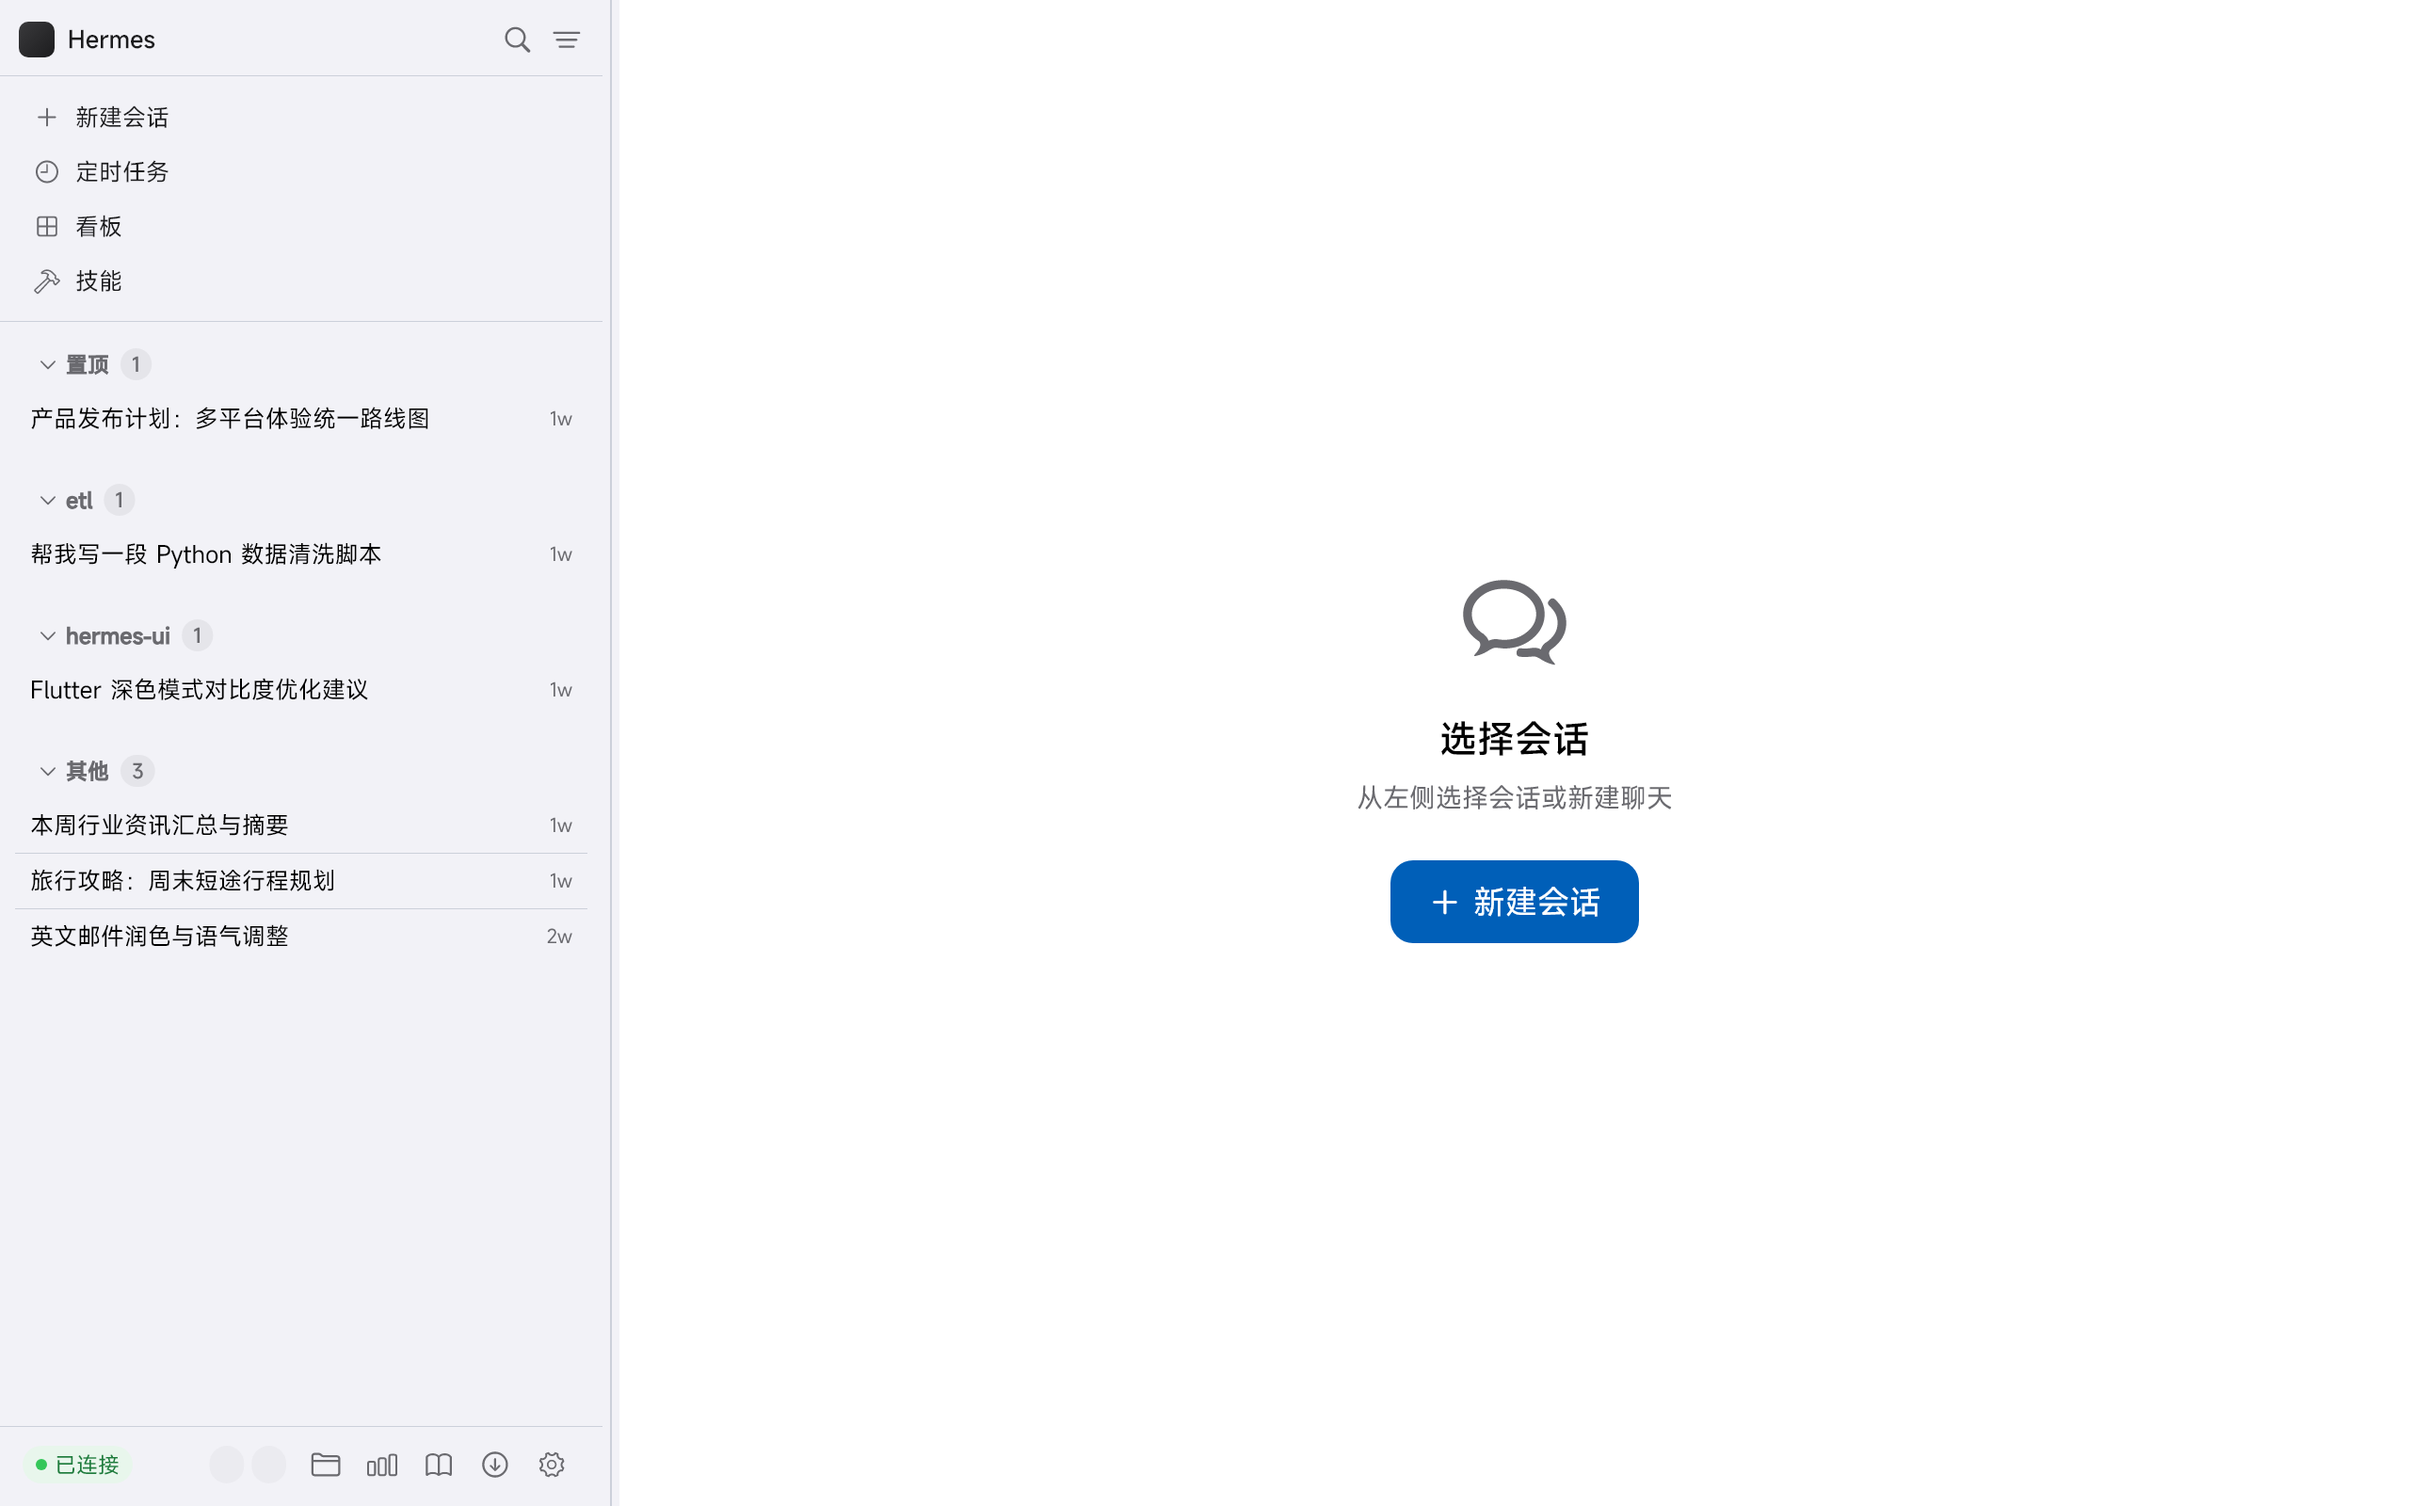
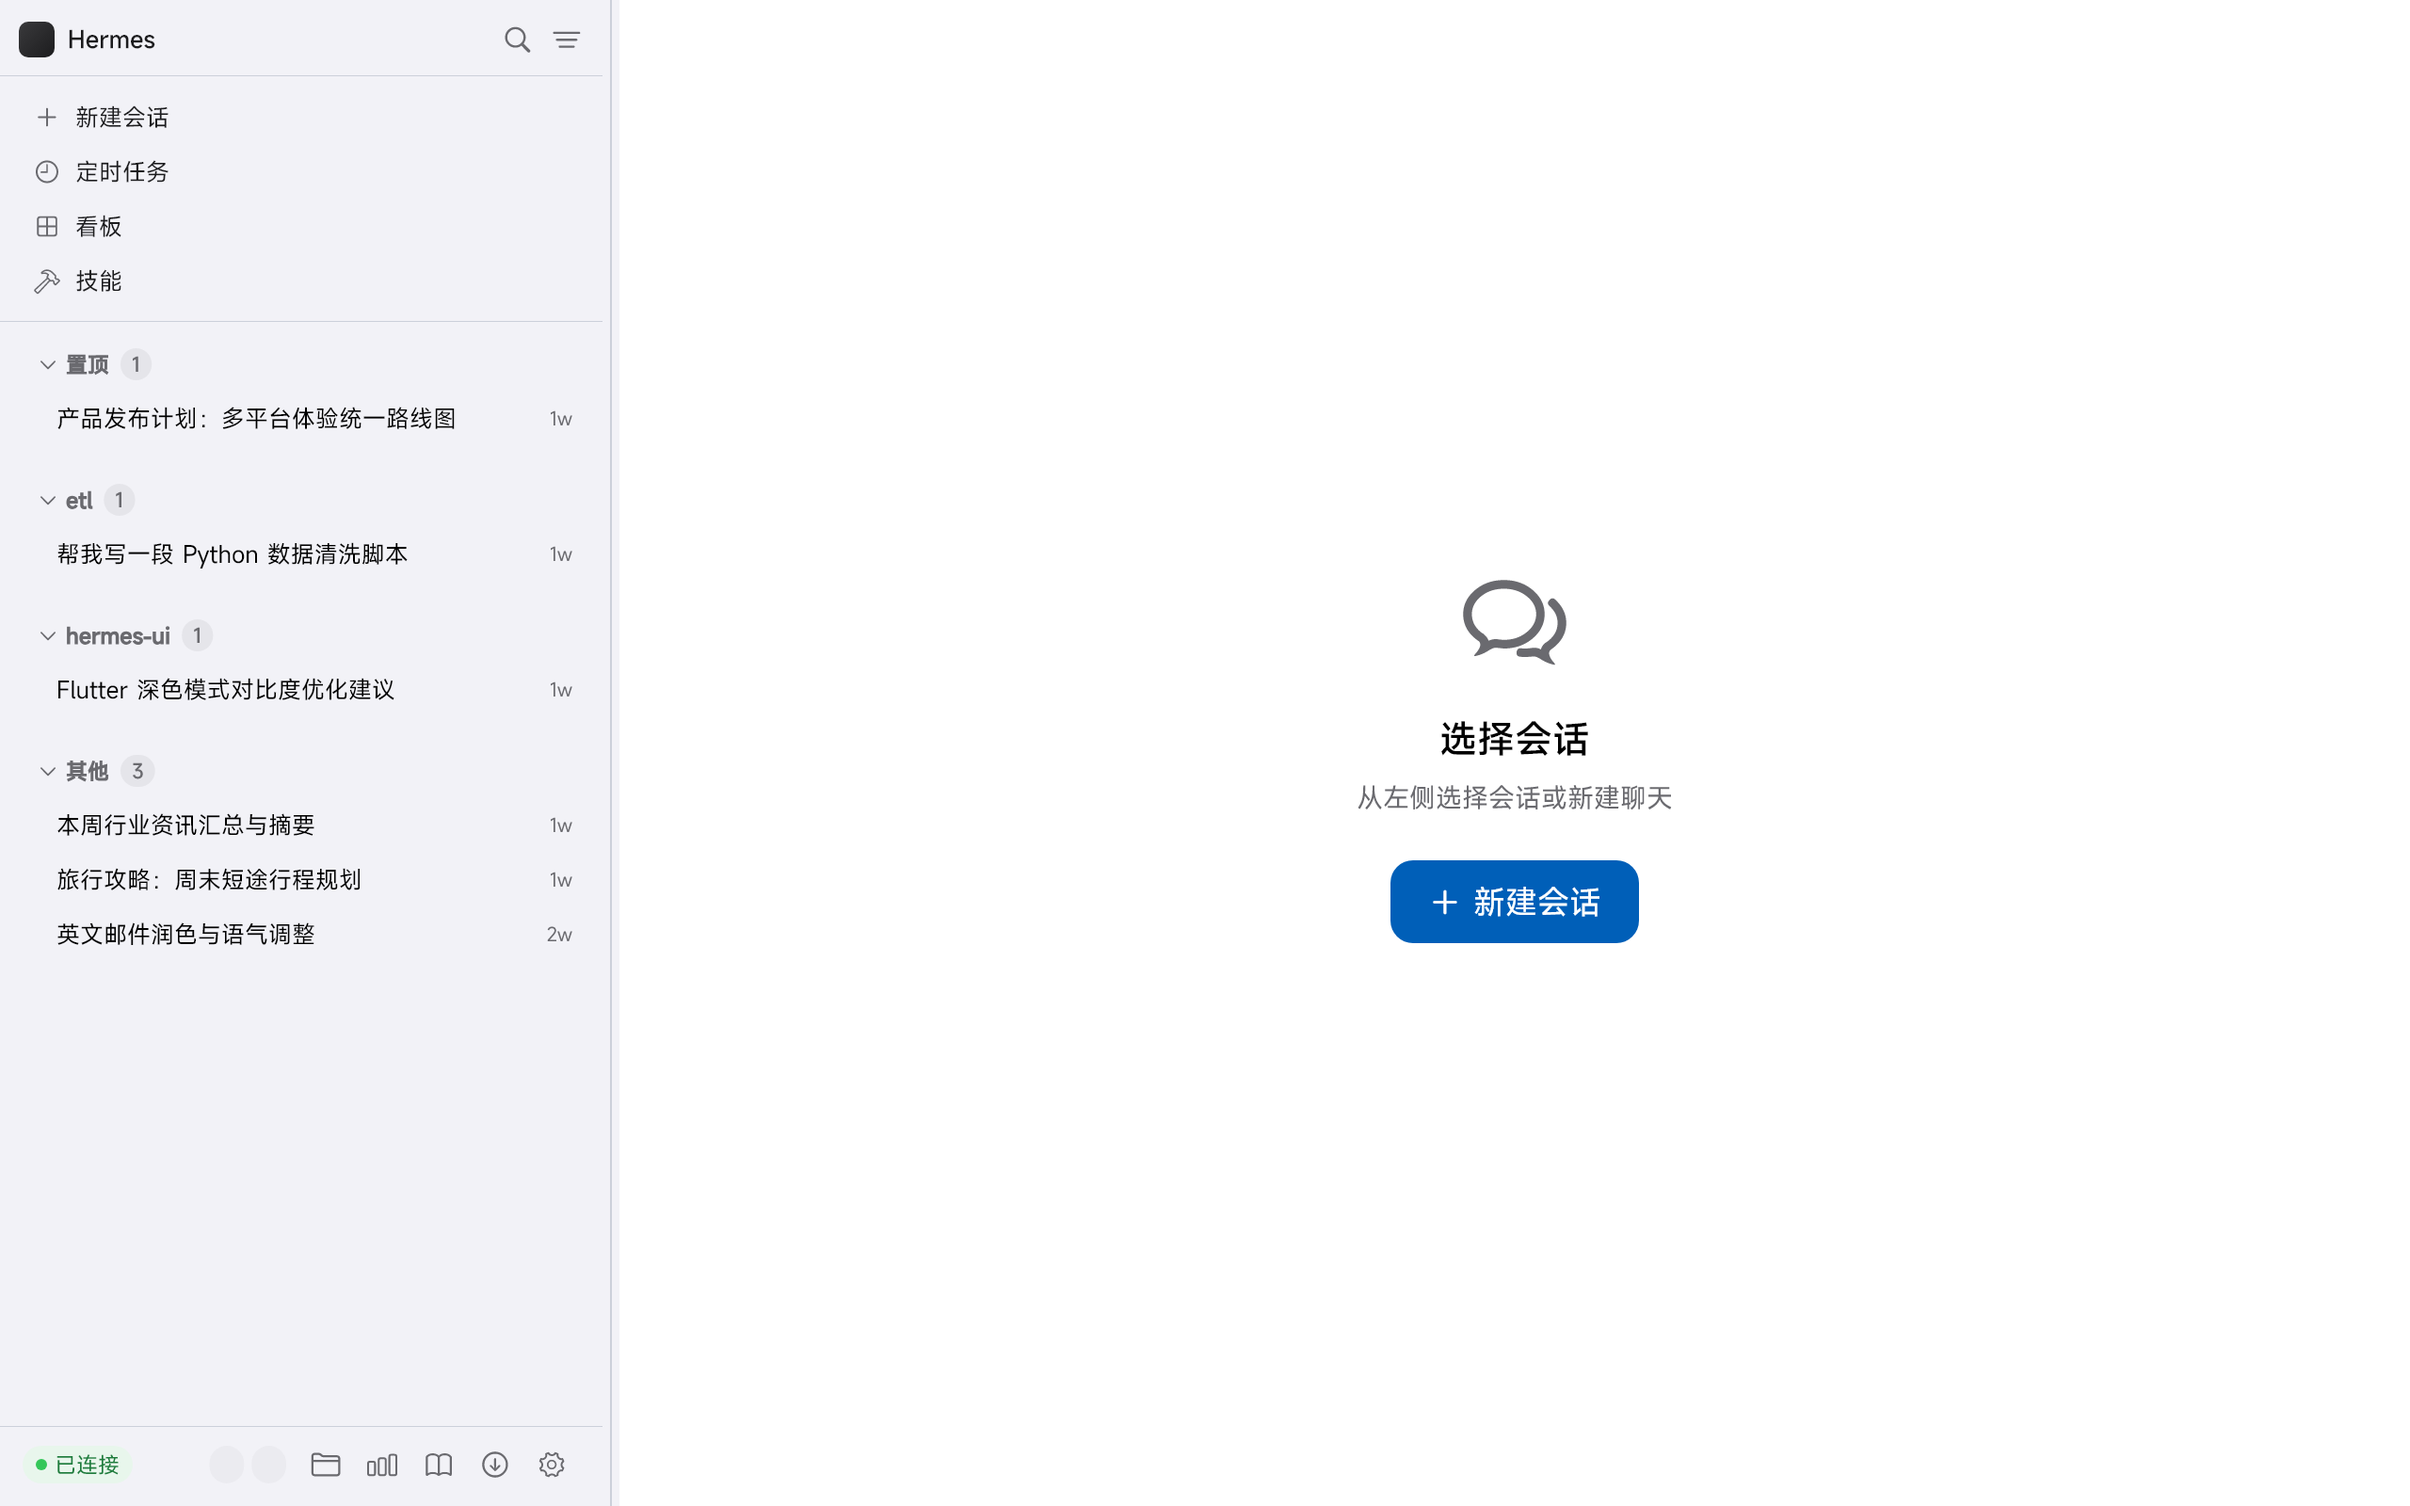
feat(shell): 会话列表四项交互细化（#151 · 去分隔线 / hover 出 ⋯ / 组头 hover 新建 / 会话项缩进）
主人验机后四条反馈，逐条实现：

1. **项与项之间不要分隔线**：`SliverList.separated` → `SliverList.builder`，
   删除 `separatorBuilder`（附注：`findItemIndexCallback` 是 separated 专有参数，
   随之一并移除，滚动锚点反查改由 key 前缀遍历承担）。

2. **悬停会话项 → 右侧「时间」换成「⋯」**：`_SessionRow` 新增 `MouseRegion`
   与 `_hovering` 状态；紧凑模式下右侧槽在「相对时间」与「⋯ 按钮」间互换
   （`session-inline-actions-<id>`）。点它 / 右键 / 长按 打开同一套操作菜单
   （整行为锚 `_rowAnchorKey`）。手机端无 hover，保持原有行为。

3. **悬停工作区组头 → 右侧「+」为该工作区新建会话**：组头 Row 由
   `mainAxisSize.min` 改为占满整行（原形态右侧无处放操作），尾部加
   `Spacer` + 悬停时出现 `session-section-new-<key>`；点击调
   `_onNewSession(context, workspace: section.workspacePath)`（复用既有链路）。
   仅工作区组（有 workspacePath、非置顶/非「其他」）显示。

4. **会话项左缩进**：紧凑模式行内距由 `8/8` 改为
   `start 22 / end 8`，使会话项在视觉上从属于所属工作区组（组头 x=30、
   会话项 x=42）。

顺带：组头与行的新路径均走既有 `AccessibleButton`（无障碍标签齐全）。

验收：analyze 零告警；`test/features/session_list/` + `test/app/` **505 全绿**；
README 截图更新并人眼验收（无分隔线、缩进层级清晰、右侧时间、无渲染异常）。

待主人实机复验：两类 hover 行为（静态截图无法呈现未悬停之外的态）。

diff --git a/lib/features/session_list/session_list_page.dart b/lib/features/session_list/session_list_page.dart
@@ -75,6 +75,10 @@ class _SessionListPageState extends ConsumerState<SessionListPage> {
   final ScrollController _scrollController = ScrollController();
   Timer? _searchDebounce;
 
+  /// #151：当前悬停的工作区组 key —— 组头右侧的「+」（为该工作区新建会话）
+  /// 只在被悬停的那一组上出现。
+  String? _hoveredSectionKey;
+
   /// 窄屏「点击大标题 = 点击 ▾」的请求通道（#128）。
   ///
   /// 「会话」大标题由 [SessionListHeaderDelegate] 自绘，触达不了
@@ -585,21 +589,9 @@ class _SessionListPageState extends ConsumerState<SessionListPage> {
                 8.0,
                 6.0,
               ),
-              sliver: SliverList.separated(
+              // #151：项与项之间不要分隔线（主人要求），改 builder 形态。
+              sliver: SliverList.builder(
                 itemCount: section.sessions.length,
-                findItemIndexCallback: (Key key) {
-                  if (key is ValueKey<String>) {
-                    final value = key.value;
-                    if (value.startsWith('session-row-')) {
-                      final id = value.substring('session-row-'.length);
-                      final index = section.sessions.indexWhere(
-                        (s) => (s.sessionId ?? s.id) == id,
-                      );
-                      return index >= 0 ? index : null;
-                    }
-                  }
-                  return null;
-                },
                 itemBuilder: (context, index) {
                   final session = section.sessions[index];
                   return _SessionRow(
@@ -632,15 +624,6 @@ class _SessionListPageState extends ConsumerState<SessionListPage> {
                               _showRowActions(context, session, anchorKey),
                   );
                 },
-                // #28 分割线全宽：dividerMargin 0，全长贯穿
-                separatorBuilder: (context, index) => Container(
-                  color: LightSurfaces.resolve(
-                    context,
-                    LightSurfaces.divider,
-                    dark: CupertinoColors.separator,
-                  ),
-                  height: 1.0 / MediaQuery.devicePixelRatioOf(context),
-                ),
               ),
             ),
         ],
@@ -671,8 +654,18 @@ class _SessionListPageState extends ConsumerState<SessionListPage> {
       dark: const Color(0xFF2C2C2E),
     );
 
-    return Align(
-      alignment: AlignmentDirectional.centerStart,
+    // #151：组头占满整行宽度，右侧留出「悬停出现的新建按钮」（为该工作区新建
+    // 会话）。原来 mainAxisSize.min 只包内容宽度，右侧无处放置操作。
+    final canCreateInGroup = section.workspacePath != null &&
+        !section.isPinned &&
+        !section.isOther;
+    return MouseRegion(
+      onEnter: canCreateInGroup
+          ? (_) => setState(() => _hoveredSectionKey = section.key)
+          : null,
+      onExit: canCreateInGroup
+          ? (_) => setState(() => _hoveredSectionKey = null)
+          : null,
       child: GestureDetector(
         key: ValueKey('session-section-header-${section.key}'),
         behavior: HitTestBehavior.opaque,
@@ -685,7 +678,6 @@ class _SessionListPageState extends ConsumerState<SessionListPage> {
             6.0,
           ),
           child: Row(
-            mainAxisSize: MainAxisSize.min,
             children: [
               // 用 CupertinoIcons 而非 Unicode 三角字符（'▸'/'▾'）：后者在
               // 缺该字形的字体环境下会渲染成 tofu 方框（金照实测踩到），
@@ -725,6 +717,25 @@ class _SessionListPageState extends ConsumerState<SessionListPage> {
                   ),
                 ),
               ),
+              const Spacer(),
+              // #151：悬停本组时右侧出现「+」→ 直接为该工作区新建会话。
+              if (canCreateInGroup &&
+                  _hoveredSectionKey == section.key &&
+                  section.workspacePath != null)
+                AccessibleButton(
+                  key: ValueKey('session-section-new-${section.key}'),
+                  label: AppLocalizations.of(context).newSession,
+                  padding: EdgeInsets.zero,
+                  minimumSize: const Size(22, 22),
+                  onPressed: () => unawaited(
+                    _onNewSession(context, workspace: section.workspacePath),
+                  ),
+                  child: Icon(
+                    CupertinoIcons.add,
+                    size: 13,
+                    color: secondaryColor,
+                  ),
+                ),
             ],
           ),
         ),
@@ -1583,6 +1594,10 @@ class _SessionRowState extends State<_SessionRow> {
   /// 以整行为锚定位（原来用按钮自身的 key）。
   final GlobalKey _rowAnchorKey = GlobalKey();
 
+  /// #151：鼠标是否悬停在本行（桌面）。悬停时右侧「时间」换成「⋯」按钮
+  /// （点它开操作菜单）；左键长按与右键同样可开菜单。
+  bool _hovering = false;
+
 
   /// 紧凑单行的右侧摘要（#150 档 B）：**只有相对时间**（主人明确：设计稿右侧
   /// 灰字是时间、不是消息数），靠右对齐；拿不到时间 → 不显示（返回 null）。
@@ -1676,10 +1691,13 @@ class _SessionRowState extends State<_SessionRow> {
         ? _compactTrailingLabel(widget.session)
         : null;
     final rowContent = Padding(
-      // 设计稿 `.sess{padding:6px 8px}`（紧凑）/ 手机保持原 16/8
-      padding: EdgeInsets.symmetric(
-        horizontal: widget.compact ? 8 : 16,
-        vertical: widget.compact ? 6 : 8,
+      // #151：紧凑模式会话项左缩进加大（视觉上从属于所属工作区组），
+      // 右侧保持 8 让时间贴边；手机保持原 16/8。
+      padding: EdgeInsetsDirectional.only(
+        start: widget.compact ? 22 : 16,
+        end: widget.compact ? 8 : 16,
+        top: widget.compact ? 6 : 8,
+        bottom: widget.compact ? 6 : 8,
       ),
       child: Row(
         children: [
@@ -1728,9 +1746,13 @@ class _SessionRowState extends State<_SessionRow> {
                           style: const TextStyle(fontSize: 17),
                         ),
                       ),
-                    // #150 档 B：右侧极简相对时间（2h / 昨天 / 3d），右对齐；
-                    // 只在紧凑模式且未显示元信息行时出现（避免一屏两处信息）。
-                    if (widget.compact && compactTrailingLabel != null) ...[
+                    // #151：紧凑模式右侧槽 —— 悬停时把「时间」换成「⋯」菜单按钮，
+                    // 未悬停时显示极简相对时间（2h / 昨天 / 3d），右对齐。
+                    if (widget.compact && _hovering && widget.onActions != null) ...[
+                      const SizedBox(width: 6),
+                      _buildInlineActionsButton(context),
+                    ] else if (widget.compact &&
+                        compactTrailingLabel != null) ...[
                       const SizedBox(width: 6),
                       Text(
                         compactTrailingLabel,
@@ -1824,7 +1846,11 @@ class _SessionRowState extends State<_SessionRow> {
     final compactActions = widget.compact && widget.onActions != null
         ? () => widget.onActions!(_rowAnchorKey)
         : null;
-    return GestureDetector(
+    return MouseRegion(
+      // #151：桌面悬停 —— 右侧「时间」与「⋯」按钮互换（手机无 hover，不受影响）。
+      onEnter: widget.compact ? (_) => setState(() => _hovering = true) : null,
+      onExit: widget.compact ? (_) => setState(() => _hovering = false) : null,
+      child: GestureDetector(
       key: _rowAnchorKey,
       behavior: HitTestBehavior.opaque,
       onTap: widget.onTap,
@@ -1847,6 +1873,30 @@ class _SessionRowState extends State<_SessionRow> {
               child: rowContent,
             )
           : rowContent,
+      ),
+    );
+  }
+
+  /// #151：紧凑模式行内「⋯」按钮（悬停时占据右侧槽，与时间同位互换）。
+  /// 点它用整行锚点打开操作菜单 —— 与右键、长按同一套动作。
+  Widget _buildInlineActionsButton(BuildContext context) {
+    return AccessibleButton(
+      key: ValueKey(
+        'session-inline-actions-${widget.session.sessionId ?? widget.session.id}',
+      ),
+      label: AppLocalizations.of(context).sessionActions,
+      padding: EdgeInsets.zero,
+      minimumSize: const Size(20, 20),
+      onPressed: () => widget.onActions?.call(_rowAnchorKey),
+      child: Icon(
+        CupertinoIcons.ellipsis,
+        size: 14,
+        color: LightSurfaces.resolve(
+          context,
+          LightSurfaces.textSecondary,
+          dark: CupertinoColors.systemGrey,
+        ),
+      ),
     );
   }
 
